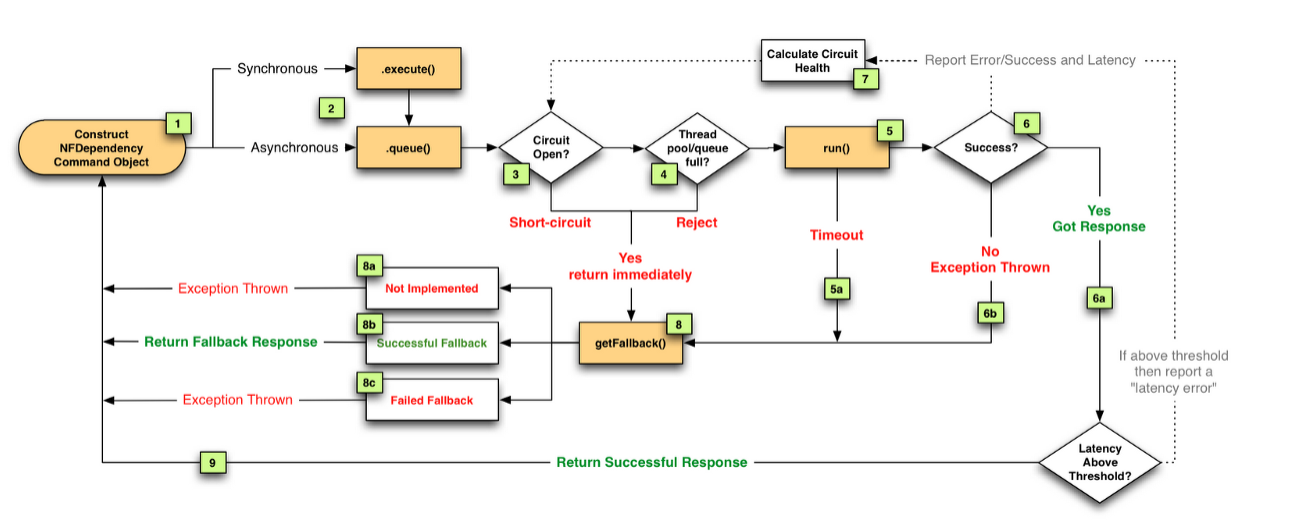
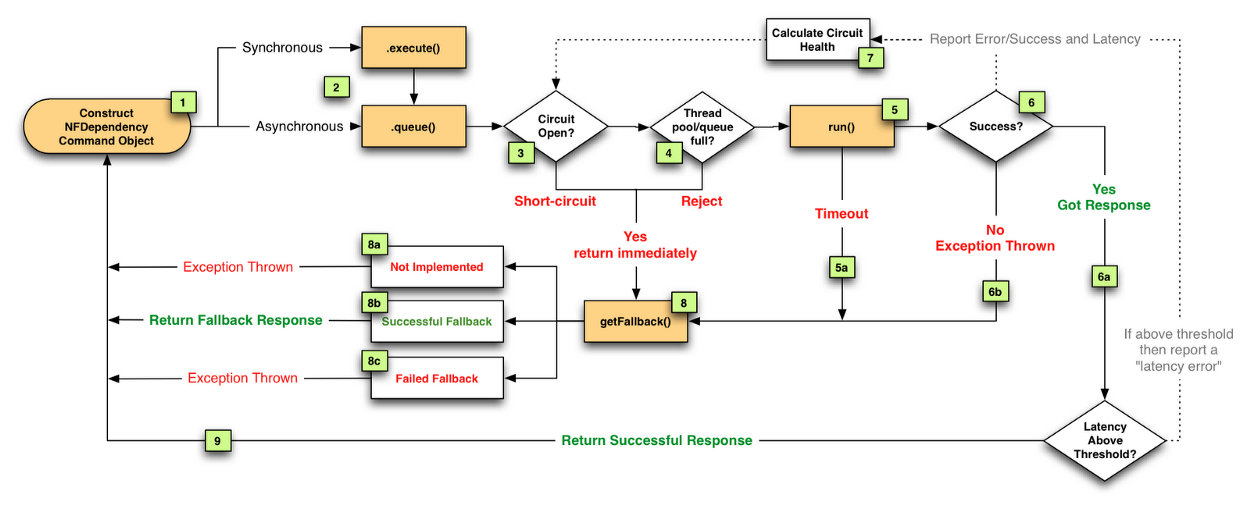
add hystrix essay

diff --git a/_drafts/2018-MM-DD-Hystrix.md b/_drafts/2018-MM-DD-Hystrix.md
@@ -5,11 +5,11 @@ subtitle: sub title
 date: 2018-11-04 15:17:19
 author: donaldhan
 catalog: true
-category: spring-framework
+category: Hystrix
 categories:
-    - spring-framework
+    - Hystrix
 tags:
-    - spring-context
+    - Hystrix
 ---
 
 # 引言
@@ -79,7 +79,13 @@ In light of the above architectural considerations we chose to implement a solut
 * semaphores (via a tryAcquire, not a blocking call)
 * circuit breakers
 
+he Netflix DependencyCommand implementation wraps a network-bound dependency call with a preference towards executing in a separate thread and defines fallback logic which gets executed (step 8 in flow chart below) for any failure or rejection (steps 3, 4, 5a, 6b below) regardless of which type of fault tolerance (network or thread timeout, thread pool or semaphore rejection, circuit breaker) triggered it.
+
+![Netflix-DependencyCommand-Implementation](/image/Hystrix/Netflix-DependencyCommand-Implementation.png)   
+
 信号量配置的使用，在什么情况下触发？
+
+![Semaphores-trigger-saturated-by-latent-network-connections](/image/Hystrix/Semaphores-trigger-saturated-by-latent-network-connections.png)   
 
 Semaphores are used instead of threads for dependency executions known to not perform network calls (such as those only doing in-memory cache lookups) since the overhead of a separate thread is too high for these types of operations.
 
@@ -101,7 +107,41 @@ An immediate failure (“fail fast”) throws an exception which causes the app 
 
 However, there are often several preferable options for providing responses in a “fallback mode” to reduce impact of failure on users. Regardless of what causes a failure and how it is intercepted (timeout, rejection, short-circuited etc) the request will always pass through the fallback logic (step 8 in flow chart above) before returning to the user to give a DependencyCommand the opportunity to do something other than “fail fast”.
 
+# How do we respond to a user request when failure occurs?
 
+An immediate failure (“fail fast”) throws an exception which causes the app to shed load until the dependency returns to health. This is preferable to requests “piling up” as it keeps Tomcat request threads available to serve requests from healthy dependencies and enables rapid recovery once failed dependencies recover.
+
+However, there are often several preferable options for providing responses in a “fallback mode” to reduce impact of failure on users. Regardless of what causes a failure and how it is intercepted (timeout, rejection, short-circuited etc) the request will always pass through the fallback logic (step 8 in flow chart above) before returning to the user to give a DependencyCommand the opportunity to do something other than “fail fast”.
+
+Some approaches to fallbacks we use are, in order of their impact on the user experience:
+
+* Cache: Retrieve data from local or remote caches if the realtime dependency is unavailable, even if the data ends up being stale
+* Eventual Consistency: Queue writes (such as in SQS) to be persisted once the dependency is available again
+* Stubbed Data: Revert to default values when personalized options can’t be retrieved
+* Empty Response (“Fail Silent”): Return a null or empty list which UIs can then ignore
+
+# Example Use Case
+
+![Example-Use-Case](/image/Hystrix/Example-Use-Case.png)  
+
+The above diagram shows an example configuration where the dependency has no reason to hit the 99.5th percentile and thus cuts it short at the network timeout layer and immediately retries with the expectation to get median latency most of the time, and accomplish this all within the 300ms thread timeout.
+
+If the dependency has legitimate reasons to sometimes hit the 99.5th percentile (i.e. cache miss with lazy generation) then the network timeout will be set higher than it, such as at 325ms with 0 or 1 retries and the thread timeout set higher (350ms+).
+
+The threadpool is sized at 10 to handle a burst of 99th percentile requests, but when everything is healthy this threadpool will typically only have 1 or 2 threads active at any given time to serve mostly 40ms median calls.
+
+When configured correctly a timeout at the DependencyCommand layer should be rare, but the protection is there in case something other than network latency affects the time, or the combination of connect+read+retry+connect+read in a worst case scenario still exceeds the configured overall timeout.
+
+The aggressiveness of configurations and tradeoffs in each direction are different for each dependency.
+
+Configurations can be changed in realtime as needed as performance characteristics change or when problems are found all without risking the taking down of the entire app if problems or misconfigurations occur.
+
+# Conclusion
+The approaches discussed in this post have had a dramatic effect on our ability to tolerate and be resilient to system, infrastructure and application level failures without impacting (or limiting impact to) user experience.
+
+Despite the success of this new DependencyCommand resiliency system over the past 8 months, there is still a lot for us to do in improving our fault tolerance strategies and performance, especially as we continue to add functionality, devices, customers and international markets.
+
+If these kinds of challenges interest you, the API team is actively hiring:
 
 ```java
 ```
